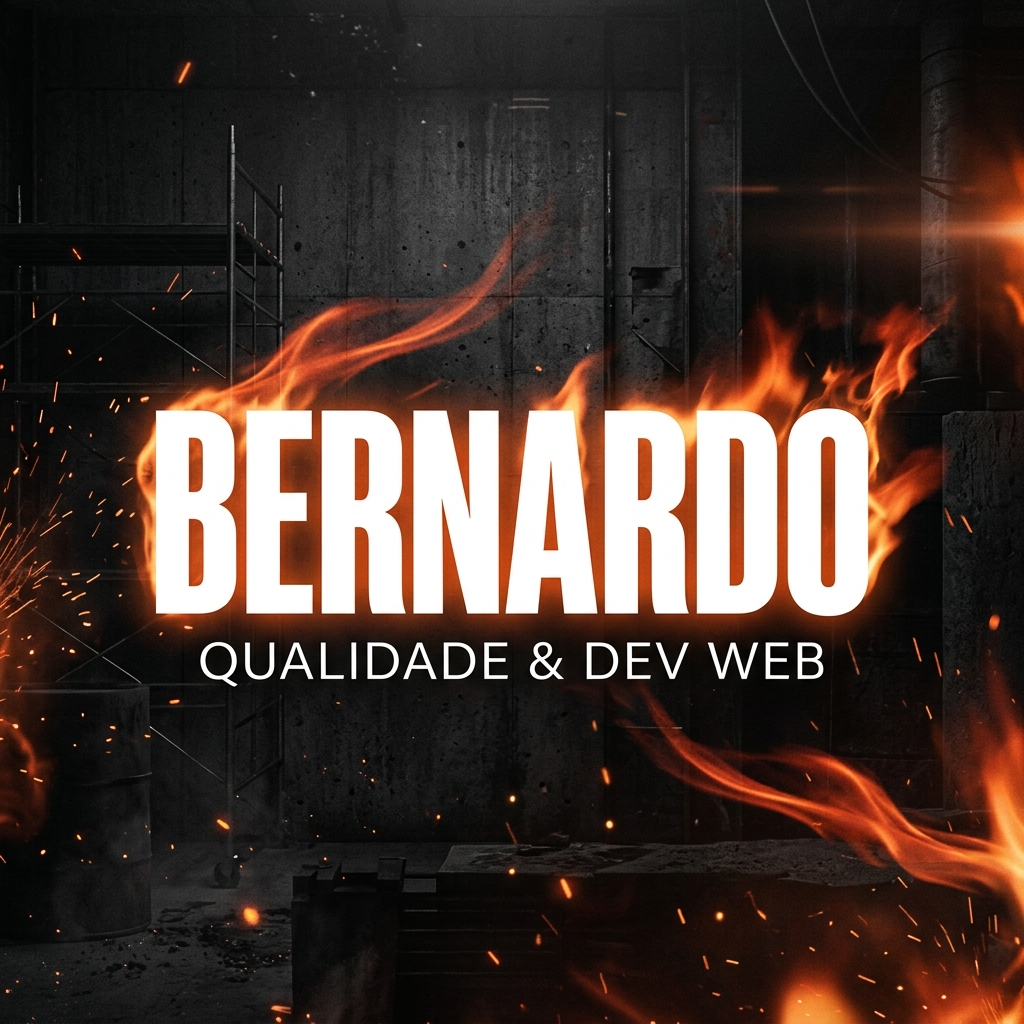
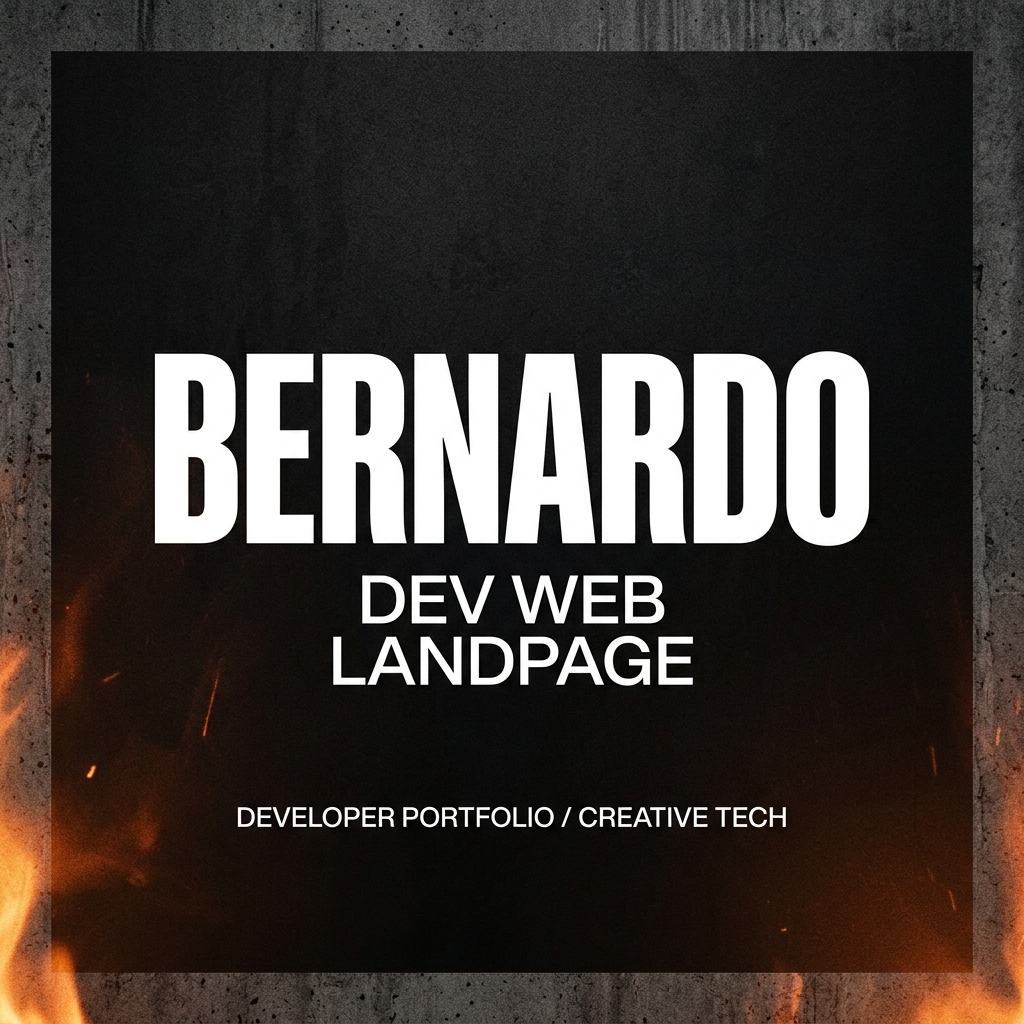
fix: final branding update to Bernardo | Dev Web and new OG image

diff --git a/src/app/layout.tsx b/src/app/layout.tsx
@@ -12,14 +12,14 @@ export const viewport: Viewport = {
 
 export const metadata: Metadata = {
   metadataBase: new URL("https://landpagedev.netlify.app"),
-  title: "Bernardo | Qualidade & Dev Web",
-  description: "Trabalhos de excelência em desenvolvimento web e qualidade industrial por Bernardo.",
+  title: "Bernardo | Dev Web",
+  description: "Eficiência industrial através de web Sistem por Bernardo.",
   icons: {
     icon: "/favicon.png",
   },
   openGraph: {
-     title: "Bernardo | Qualidade & Dev Web",
-     description: "Trabalhos de excelência em desenvolvimento web e qualidade industrial por Bernardo.",
+     title: "Bernardo | Dev Web",
+     description: "Eficiência industrial através de web Sistem por Bernardo.",
      url: "https://landpagedev.netlify.app",
      siteName: "Bernardo Portfolio",
      images: [
@@ -27,7 +27,7 @@ export const metadata: Metadata = {
          url: "/og-image.png", 
          width: 1200, 
          height: 630,
-         alt: "Bernardo Portfolio - Qualidade & Dev Web"
+         alt: "Bernardo Portfolio - Dev Web"
        }
      ],
      locale: "pt_BR",
@@ -35,8 +35,8 @@ export const metadata: Metadata = {
   },
   twitter: {
     card: "summary_large_image",
-    title: "Bernardo | Qualidade & Dev Web",
-    description: "Trabalhos de excelência em desenvolvimento web e qualidade industrial por Bernardo.",
+    title: "Bernardo | Dev Web",
+    description: "Eficiência industrial através de web Sistem por Bernardo.",
     images: ["/og-image.png"],
   }
 };
